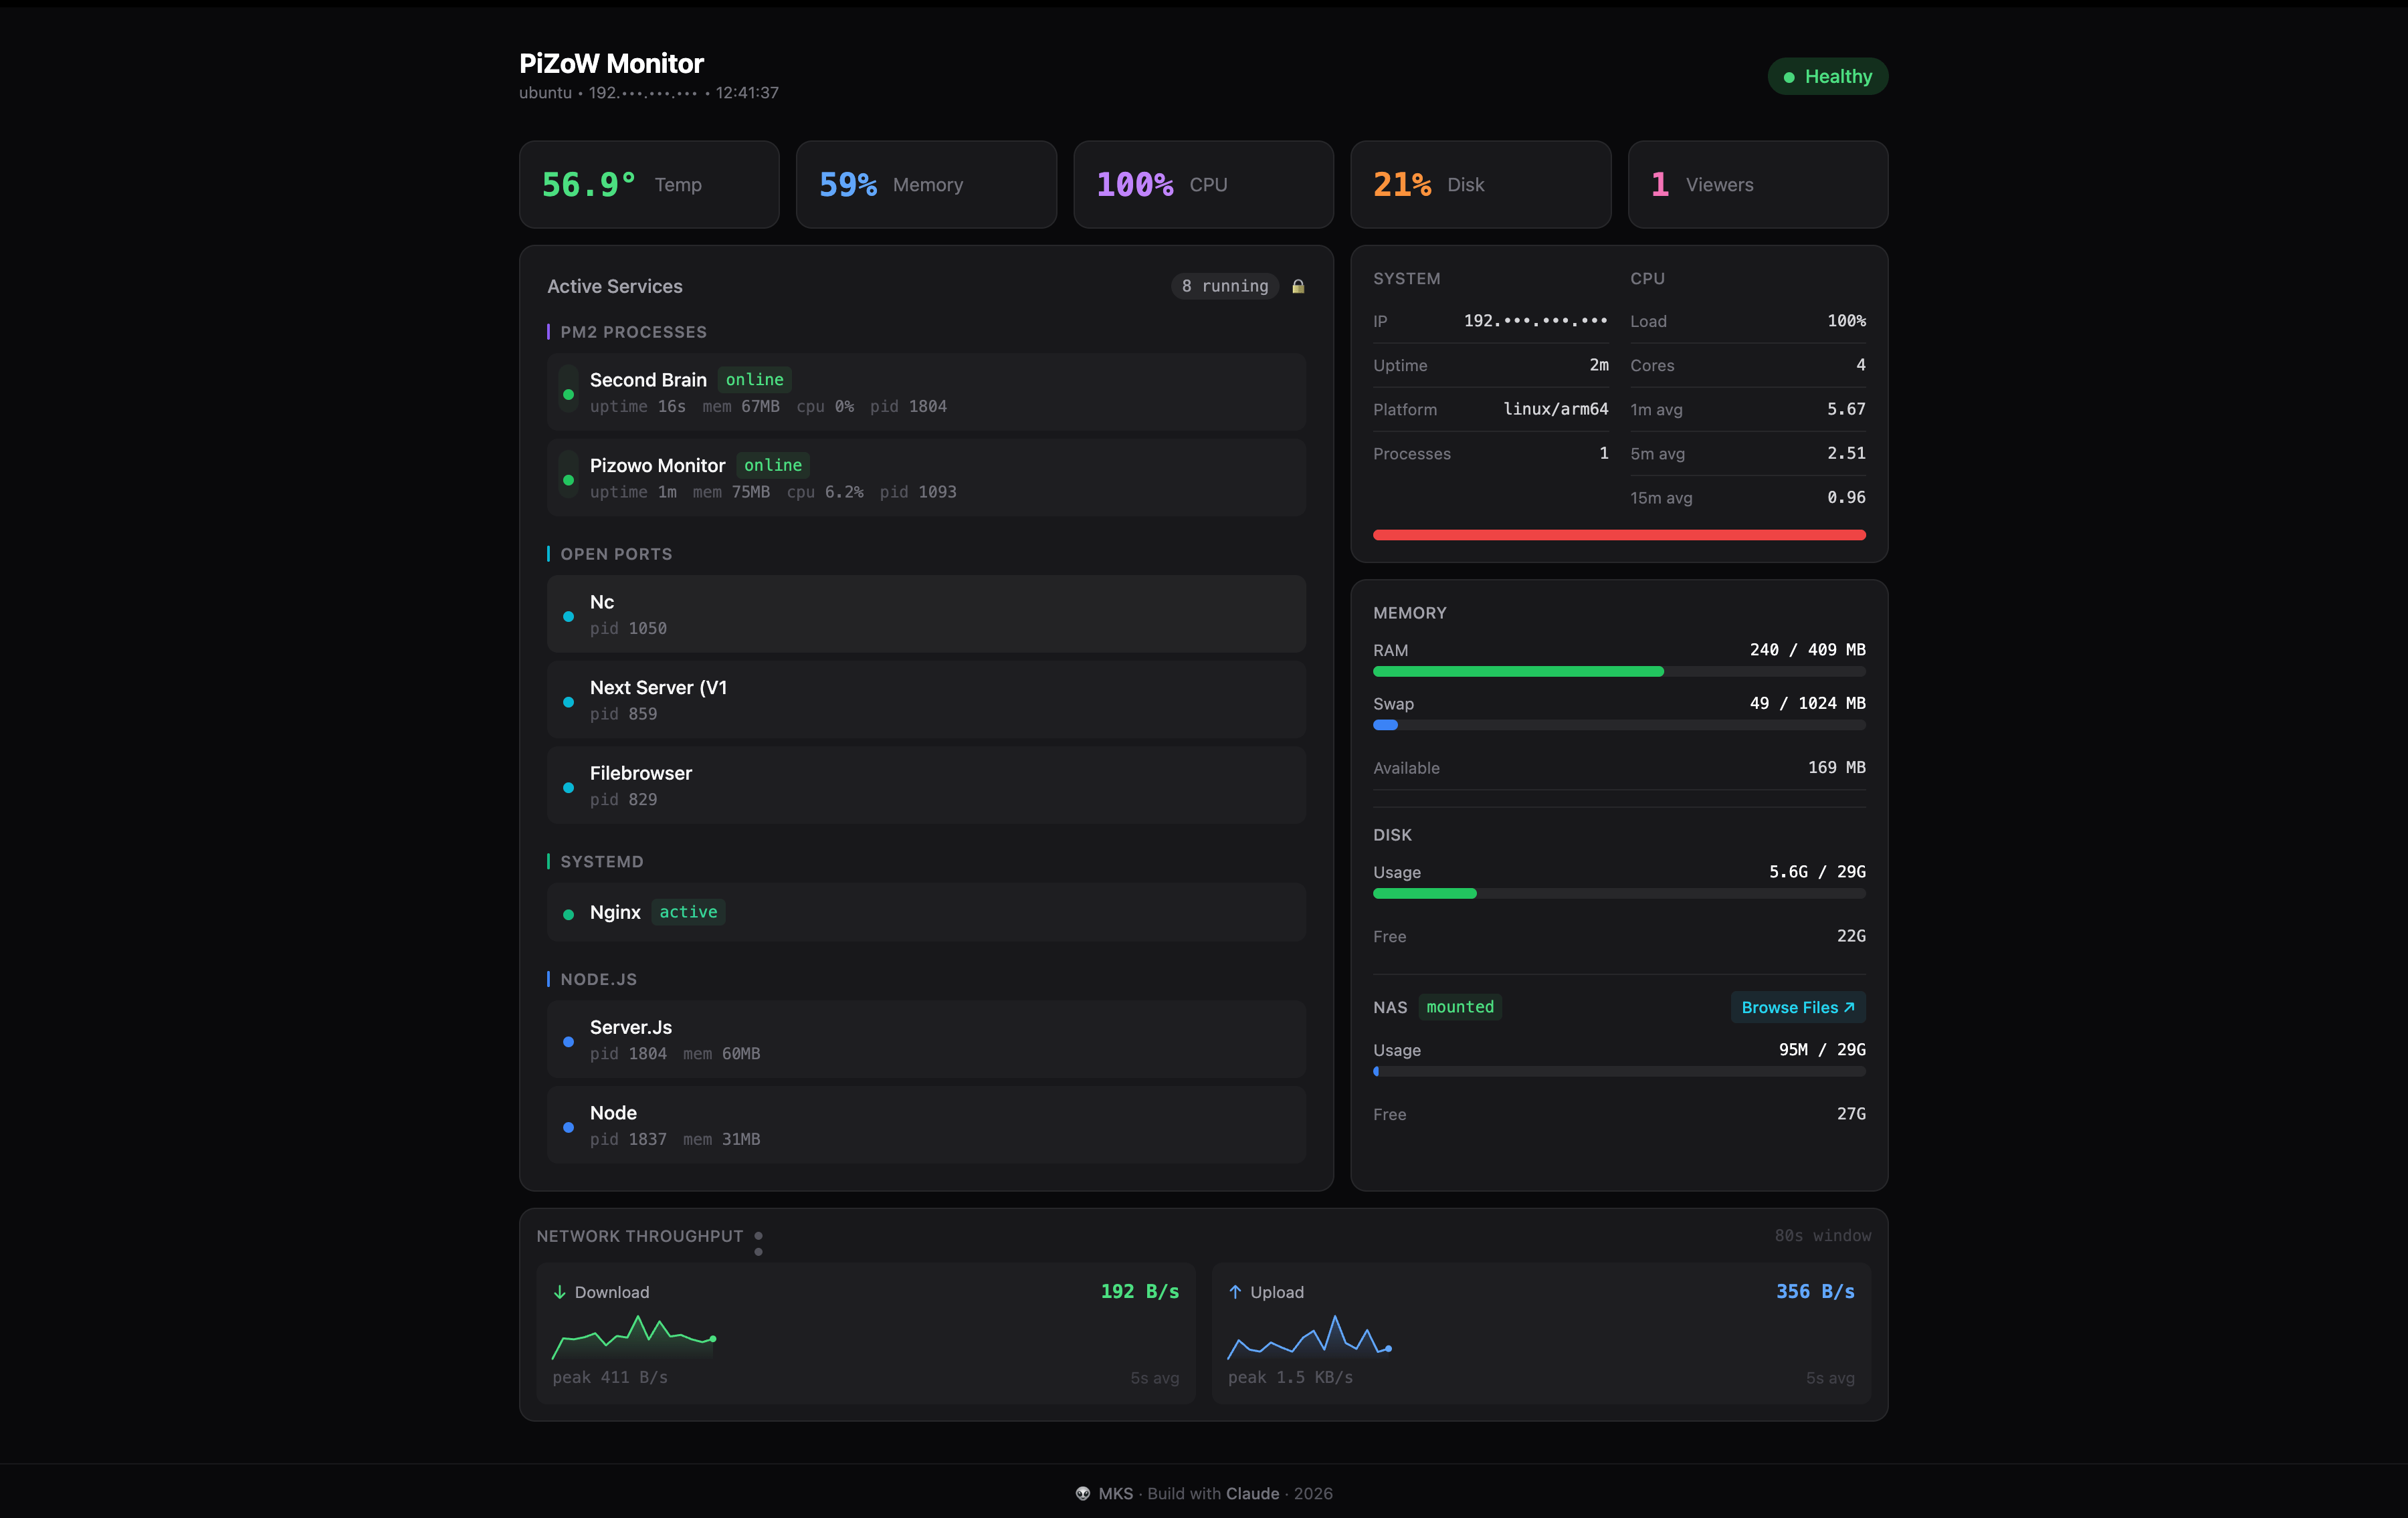
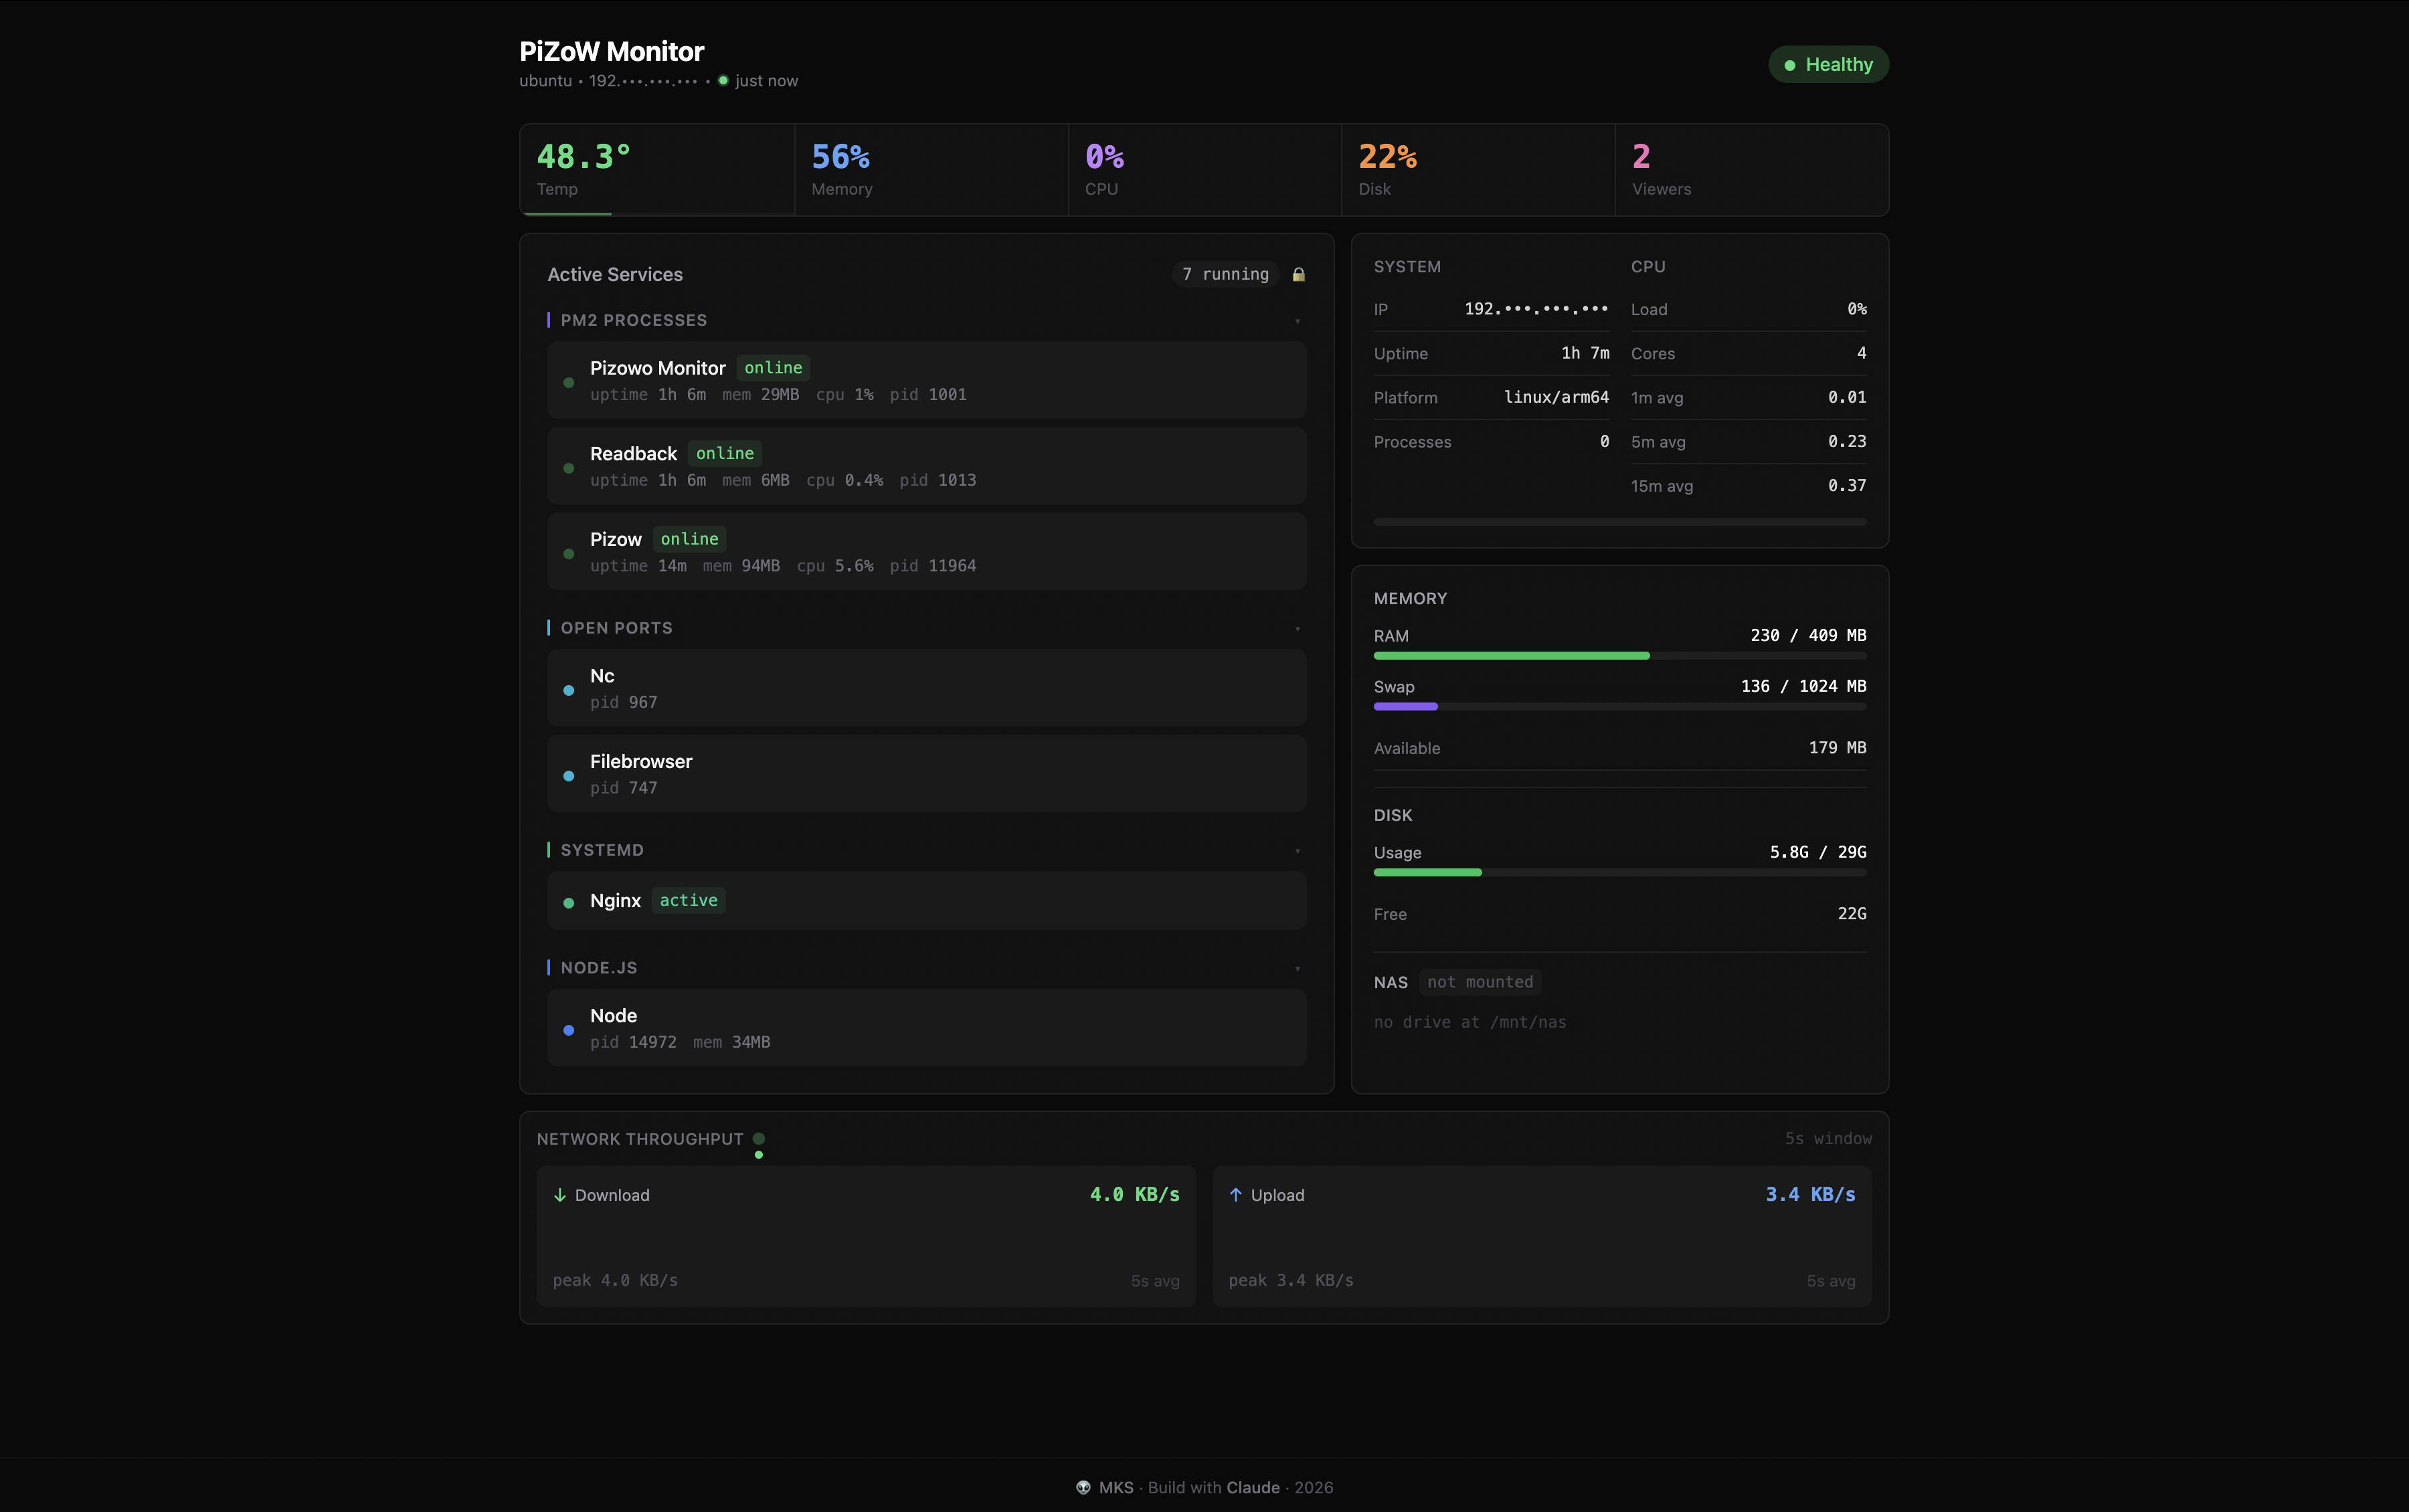
docs: update screenshots to matte black redesign, add pi-deploy skill
- Replace hero with single desktop screenshot (matte black redesign)
- Update mobile.jpg to latest UI
- Remove NAS screenshot table — cleaner README
- Fix GitHub URLs from YOUR_USERNAME to MKS-01
- Add .claude/skills/pi-deploy skill for deploy-to-Pi workflow

diff --git a/.claude/skills/pi-deploy/SKILL.md b/.claude/skills/pi-deploy/SKILL.md
@@ -1,0 +1,64 @@
+---
+name: pi-deploy
+description: Deploy the Next.js dashboard (or any configured app) to the Pi. Accepts --local (default), --remote, or --restart. Use when the user asks to deploy, push, or update the Pi.
+---
+
+Deploy the app to the Pi using `scripts/deploy.sh`.
+
+## Step 1 — parse the user's intent
+
+From the user's message determine the deploy mode:
+- **`--local`** (default) — build on this machine, rsync `.next/standalone` to Pi
+- **`--remote`** — Pi pulls from git and builds itself
+- **`--restart`** — skip build/sync, just restart PM2
+
+If the user didn't specify, use `--local`.
+
+## Step 2 — load config
+
+Source `.env` from the project root to get `PI_USER`, `PI_HOST`, `PORT`, `PM2_APP_NAME`. If `.env` is missing or `PI_HOST` is still the placeholder, stop and tell the user to configure it.
+
+```bash
+set -a; source .env; set +a
+```
+
+## Step 3 — run the deploy
+
+Run from the project root:
+
+```bash
+bash scripts/deploy.sh --local    # or --remote / --restart
+```
+
+Stream the output as it runs — do not suppress it. The script handles SSH connection checks, build, rsync, and PM2 restart internally.
+
+## Step 4 — post-deploy health check
+
+After the script exits successfully, SSH in and show a brief status:
+
+```bash
+ssh $PI_USER@$PI_HOST "
+  export PATH=\$PATH:\$(npm prefix -g)/bin
+  echo '=== PM2 ==='
+  pm2 list
+  echo ''
+  echo -n 'Temp:   '; cat /sys/class/thermal/thermal_zone0/temp | awk '{printf \"%.1f°C\n\", \$1/1000}'
+  echo -n 'Mem:    '; free -h | awk '/Mem:/{print \$3 \" / \" \$2}'
+"
+```
+
+## Step 5 — report
+
+Tell the user:
+- Which mode was used and what was deployed
+- The URL: `http://$PI_HOST` (port 80 via Nginx) or `http://$PI_HOST:$PORT` if Nginx isn't set up
+- Flag anything concerning from the health check (PM2 process not `online`, temp > 70°C)
+
+## Error handling
+
+| Problem | Action |
+|---|---|
+| SSH connection refused | Tell user to check Pi is on and reachable: `ping $PI_HOST` |
+| Build fails | Show the npm error output, suggest checking RAM/swap on Pi for `--remote` mode |
+| PM2 crash-loop | Suggest `bash scripts/manage.sh logs` and check the error |
+| `.env` not configured | Stop immediately — do not guess values |

diff --git a/README.md b/README.md
@@ -10,12 +10,7 @@
 ![Shell Script](https://img.shields.io/badge/Shell_Script-121011?style=for-the-badge&logo=gnu-bash&logoColor=white)
 ![Ubuntu](https://img.shields.io/badge/Ubuntu-E95420?style=for-the-badge&logo=ubuntu&logoColor=white)
 
-<table>
-  <tr>
-    <td><a href="screenshot/web-dashboard.png"><img src="screenshot/web-dashboard.png" height="280" alt="Desktop" /></a></td>
-    <td><a href="screenshot/mobile.jpg"><img src="screenshot/mobile.jpg" height="280" alt="Mobile" /></a></td>
-  </tr>
-</table>
+![PiZoW Dashboard](screenshot/web-dashboard.png)
 
 ---
 
@@ -83,13 +78,13 @@ ssh-copy-id YOUR_USERNAME@YOUR_PI_IP   # recommended — enables passwordless de
 On your Pi:
 
 ```bash
-curl -sSL https://raw.githubusercontent.com/YOUR_USERNAME/pizow/main/scripts/setup-pi.sh | bash
+curl -sSL https://raw.githubusercontent.com/MKS-01/pizow/main/scripts/setup-pi.sh | bash
 ```
 
 Or clone and run locally:
 
 ```bash
-git clone https://github.com/YOUR_USERNAME/pizow.git
+git clone https://github.com/MKS-01/pizow.git
 cd pizow
 ./scripts/setup-pi.sh
 ```
@@ -210,12 +205,6 @@ Uses `BUILD_DIR` from `.env` (defaults to `examples/nextjs`). Starts the app dir
 
 Turns your Pi into a NAS using any USB storage drive. After setup, File Browser runs at `http://PI_IP:8080` — accessible from any device on your network.
 
-<table>
-  <tr>
-    <td><a href="screenshot/mobile-nas.jpg"><img src="screenshot/mobile-nas.jpg" height="320" alt="File Browser Login" /></a></td>
-    <td><a href="screenshot/mobile-nas2.jpg"><img src="screenshot/mobile-nas2.jpg" height="320" alt="File Browser Menu" /></a></td>
-  </tr>
-</table>
 
 ```bash
 # Run from your Mac (auto-forwards to Pi via SSH)